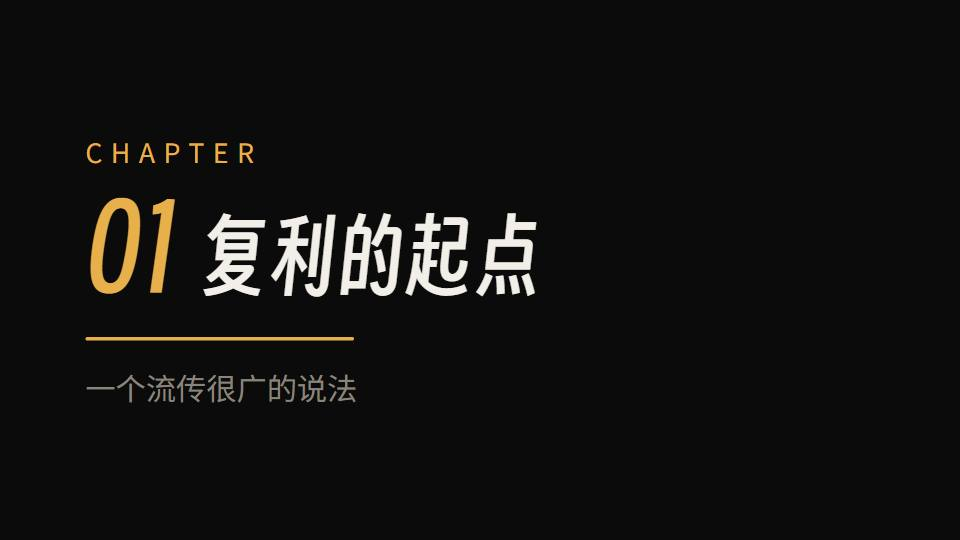
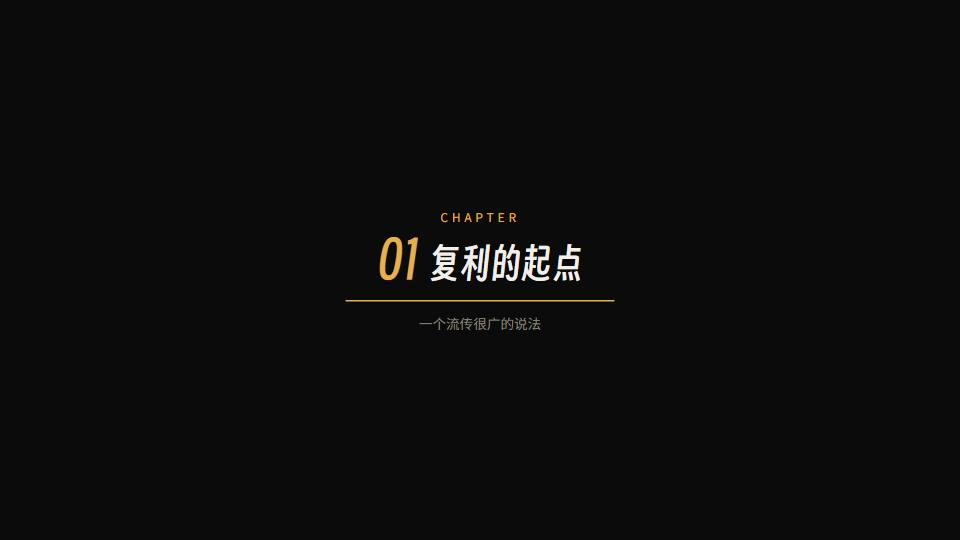
fix(recipes): the chapter card scales by height on a wide frame
The same report that found the anchor bug said the opening card left a big gap on
the right. It was scaling type by `item.width / 1080`, which is correct for the
portrait canvas it was designed on and doubles every size on a 1920×1080 one
(1.78×) while the right half of the frame stays empty.

A wide canvas now scales by height and centres the block, so it reads as a title
card instead of a column that ran out of room.

`big-word-fill` already had a landscape branch; this was the last of the
full-frame recipes without one.

diff --git a/production/recipes/chapter-card/index.jsx b/production/recipes/chapter-card/index.jsx
@@ -9,7 +9,14 @@ const Component = ({ item }) => {
   const width = item.width;
   // Designed at 1080 wide and handed the whole canvas (see fullFrame in
   // compile.ts). Fixed pixel sizes would stay small on a 1920-wide frame.
-  const k = item.width / 1080;
+  //
+  // Scaling by WIDTH is right on a portrait frame and wrong on a landscape one:
+  // 1920/1080 = 1.78 grows the title to twice its design size while the right
+  // half of the frame stays empty. A wide frame scales by height instead, and
+  // centres the block, so it reads as a title card rather than a column that
+  // ran out of room.
+  const wide = item.width > item.height;
+  const k = wide ? Math.max(0.8, item.height / 1920) : item.width / 1080;
   const rootStyle = {
     position: 'absolute',
     inset: 0,
@@ -17,6 +24,8 @@ const Component = ({ item }) => {
     display: 'flex',
     flexDirection: 'column',
     justifyContent: 'center',
+    alignItems: wide ? 'center' : 'flex-start',
+    textAlign: wide ? 'center' : 'left',
     padding: '0 ' + (96 * k) + 'px',
     boxSizing: 'border-box',
   };
